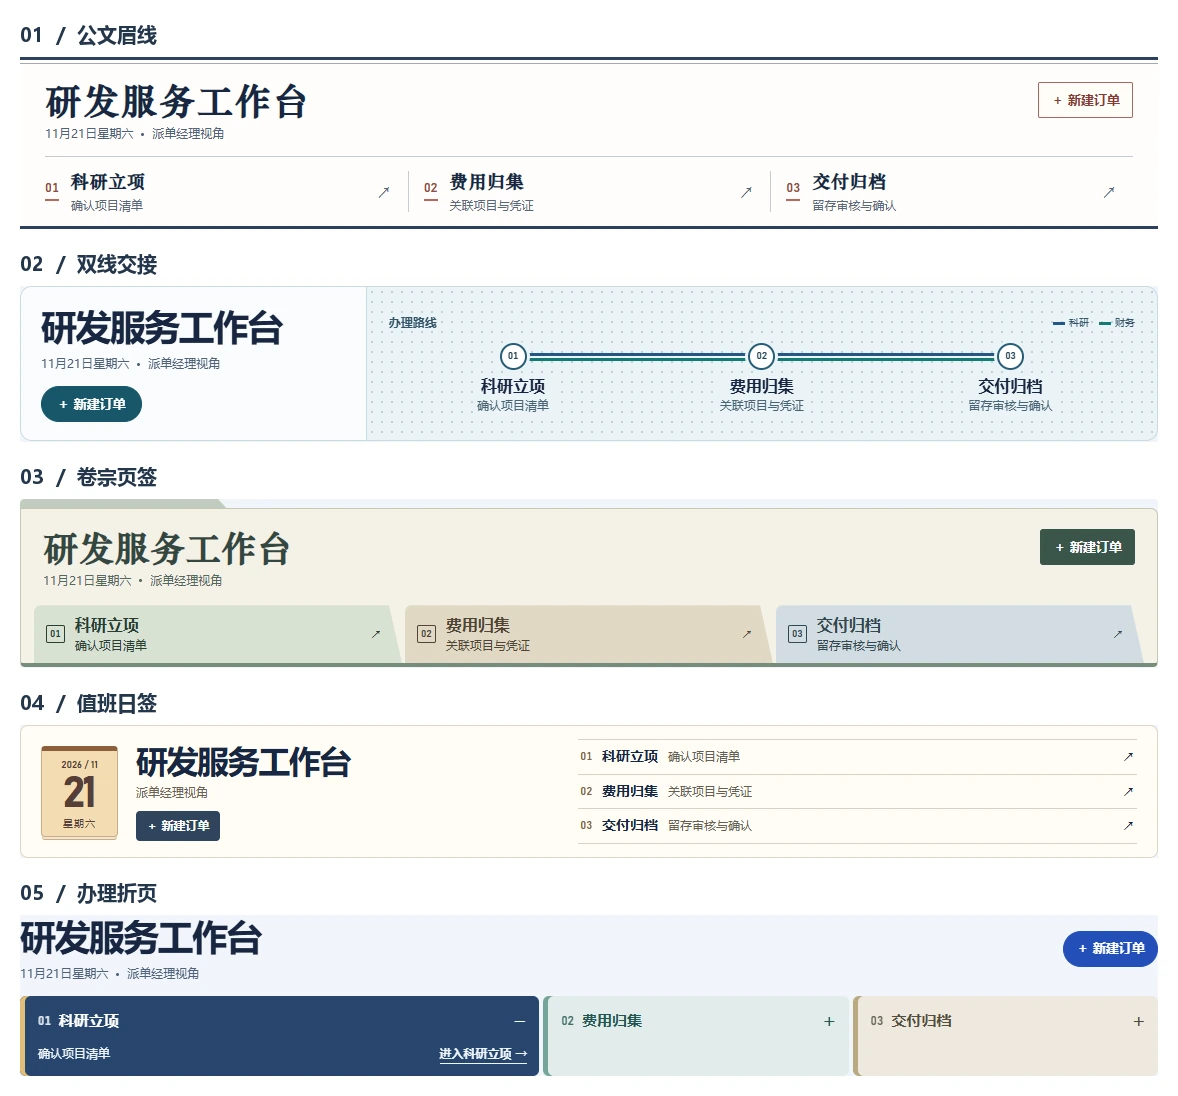
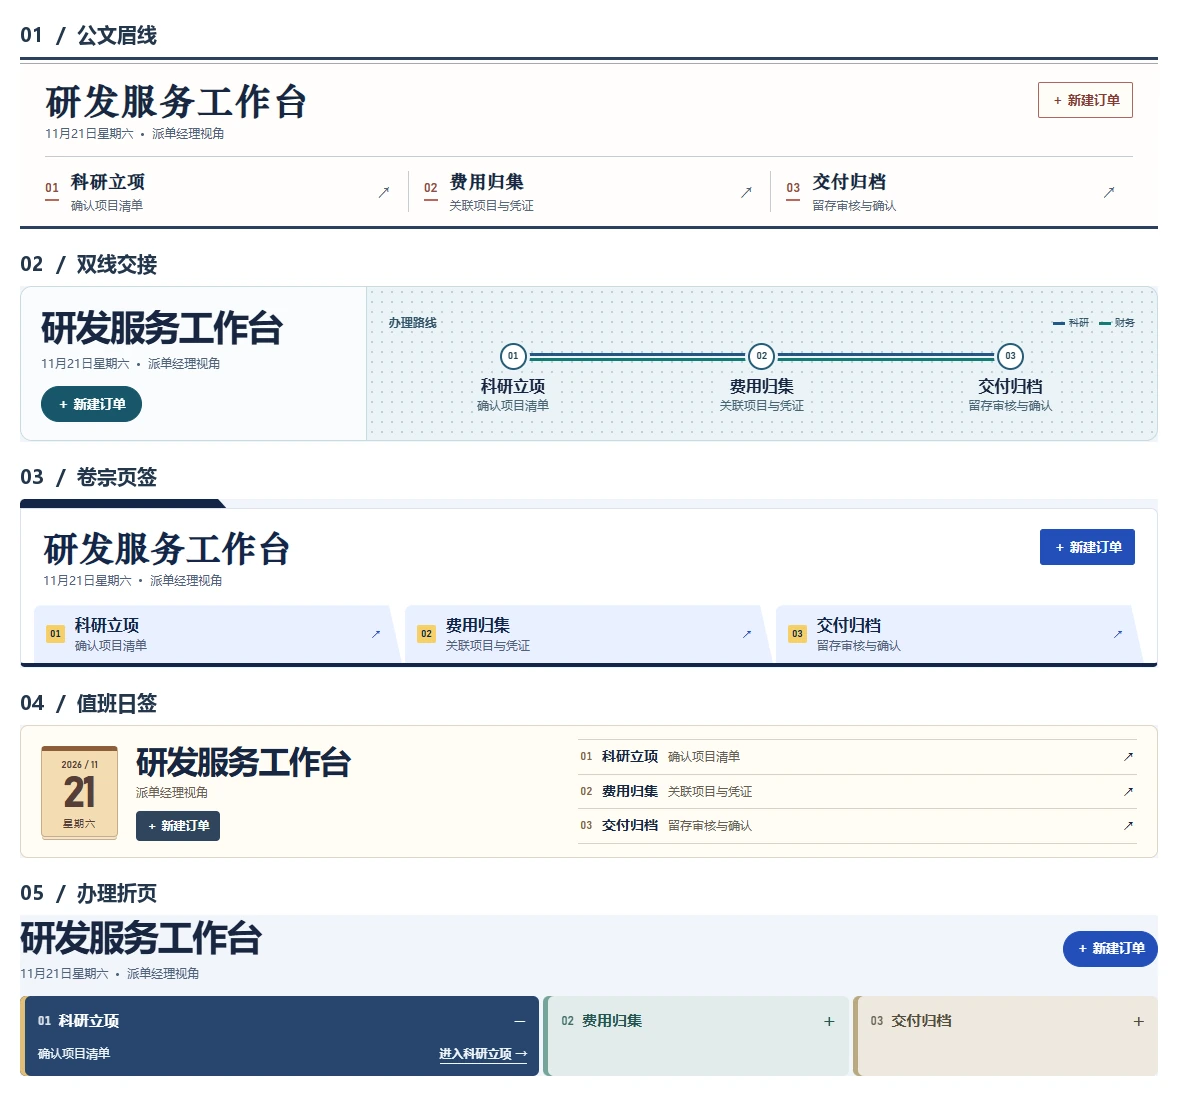
Match folder tabs to the dashboard navy and blue palette

Changed region(s): [[0.0, 0.4343, 1.0, 0.6204]]

diff --git a/header-options/review.css b/header-options/review.css
@@ -60,20 +60,18 @@
 .hp-transfer .hp-steps a:hover .hp-no,.hp-transfer .hp-steps a:focus-visible .hp-no{color:white;background:#1a6274;box-shadow:0 0 0 4px #c1e3e5}
 
 .hp-folders{padding-top:9px;position:relative}
-.hp-folders:before{content:'';position:absolute;left:0;top:0;width:clamp(100px,20%,210px);height:13px;background:#c1ccbf;clip-path:polygon(0 0,calc(100% - 12px) 0,100% 100%,0 100%);border-radius:5px 0 0 0;z-index:-1}
-.hp-filing{padding:17px 22px 13px;background:#f4f2e8;border:1px solid #c7c7b5;border-bottom:0;border-radius:0 7px 0 0}
-.hp-folders h1{font:700 clamp(25px,2.5vw,35px)/1.22 var(--serif);letter-spacing:.02em;color:#334640}
-.hp-folders .hp-meta{color:#56675e;margin-top:3px}
-.hp-folders .button.primary{background:#3b554b;border-color:#3b554b;border-radius:3px}
-.hp-folders .button.primary:hover{background:#283d36}
-.hp-folders .hp-steps{padding:0 13px;gap:3px;border:1px solid #c7c7b5;border-top:0;border-bottom:4px solid #778b7a;background:#f4f2e8;border-radius:0 0 5px 5px}
-.hp-folders .hp-steps a{margin-top:2px;background:#d9e1d4;color:#293e34;border-radius:7px 0 0 0;clip-path:polygon(0 0,calc(100% - 13px) 0,100% 100%,0 100%);padding:9px 20px 9px 12px;gap:10px}
-.hp-folders .hp-steps a:nth-child(2){background:#e1d9c4;color:#4f4436}
-.hp-folders .hp-steps a:nth-child(3){background:#d2dde1;color:#334750}
-.hp-folders .hp-no{border:1px solid currentColor;border-radius:2px;padding:3px;font-size:10px}
-.hp-folders .hp-end{font-size:12px}
-.hp-folders .hp-steps a:hover,.hp-folders .hp-steps a:focus-visible{filter:brightness(.94);box-shadow:inset 0 -3px currentColor}
-.hp-folders .hp-steps a:focus-visible{box-shadow:inset 0 0 0 3px #365fc4}
+.hp-folders:before{content:'';position:absolute;left:0;top:0;width:clamp(100px,20%,210px);height:13px;background:var(--navy);clip-path:polygon(0 0,calc(100% - 12px) 0,100% 100%,0 100%);border-radius:5px 0 0 0;z-index:-1}
+.hp-filing{padding:17px 22px 13px;background:var(--white);border:1px solid var(--line);border-bottom:0;border-radius:0 7px 0 0}
+.hp-folders h1{font:700 clamp(25px,2.5vw,35px)/1.22 var(--serif);letter-spacing:.02em;color:var(--navy)}
+.hp-folders .hp-meta{color:var(--muted);margin-top:3px}
+.hp-folders .button.primary{border-radius:3px}
+.hp-folders .hp-steps{padding:0 13px;gap:3px;border:1px solid var(--line);border-top:0;border-bottom:4px solid var(--navy);background:var(--white);border-radius:0 0 5px 5px}
+.hp-folders .hp-steps a{margin-top:2px;background:#e9f0ff;color:var(--navy);border-radius:7px 0 0 0;clip-path:polygon(0 0,calc(100% - 13px) 0,100% 100%,0 100%);padding:9px 20px 9px 12px;gap:10px}
+.hp-folders .hp-copy small{color:var(--muted)}
+.hp-folders .hp-no{color:var(--navy);background:var(--gold);border:1px solid var(--gold);border-radius:2px;padding:3px;font-size:10px}
+.hp-folders .hp-end{font-size:12px;color:var(--blue)}
+.hp-folders .hp-steps a:hover,.hp-folders .hp-steps a:focus-visible{box-shadow:inset 0 -3px var(--blue);color:var(--blue)}
+.hp-folders .hp-steps a:focus-visible{box-shadow:inset 0 0 0 3px var(--blue)}
 
 .hp-calendar{display:grid;grid-template-columns:minmax(0,1fr) minmax(0,1.08fr);align-items:center;gap:20px;padding:13px 20px;background:#fffcf5;border:1px solid #ded5c6;border-radius:8px}
 .hp-calendar-intro{display:flex;align-items:center;gap:18px}

diff --git a/index.html b/index.html
@@ -6,7 +6,7 @@
   <meta name="description" content="使用虚构数据体验科研立项、费用归集、逐级审核与交付归档。">
   <title>科研财税协同 · 演示工作台</title>
   <link rel="stylesheet" href="./styles.css?v=classic">
-  <link rel="stylesheet" href="./header-options/review.css">
+  <link rel="stylesheet" href="./header-options/review.css?v=blue-folders">
   <script type="module" src="./app.js?v=folders"></script>
 </head>
 <body>
